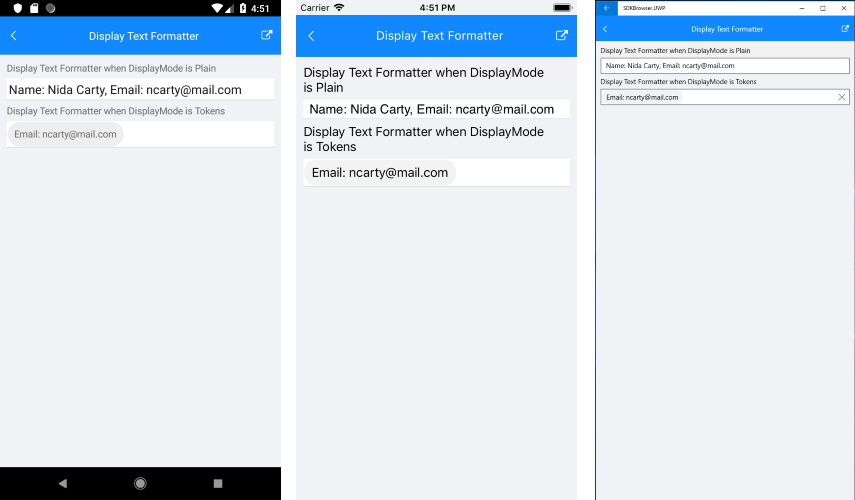
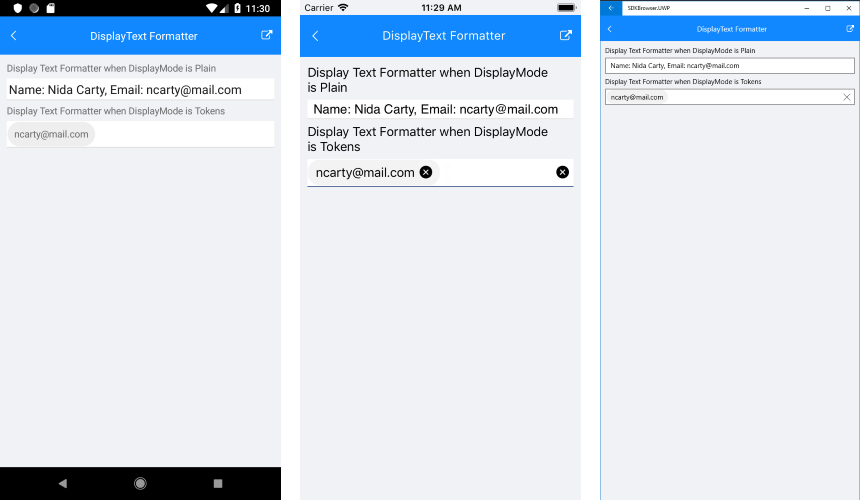
updated images

diff --git a/controls/autocompleteview/autocompleteview-display-text-formatter.md b/controls/autocompleteview/autocompleteview-display-text-formatter.md
@@ -29,10 +29,6 @@ After that create a class for example MyBusinessObjectFormatter that inherist fr
 
 <snippet id='autocompleteview-features-text-formatter-plain-class'/>
 
-and add this class as a Resource of the page:
-
-<snippet id='autocompleteview-features-textformatter-plain-resources'/>
-
 Finally, use the following snippet to declare a RadAutoCompleteView in XAML:
 
 <snippet id='autocompleteview-features-textformatter-plain'/>
@@ -57,10 +53,6 @@ After that create a class for example MyObjectFormatter that inherist from IDisp
 
 <snippet id='autocompleteview-features-text-formatter-tokens-class'/>
 
-and add this class as a Resource of the page:
-
-<snippet id='autocompleteview-features-textformatter-tokens-resources'/>
-
 Finally, use the following snippet to declare a RadAutoCompleteView in XAML:
 
 <snippet id='autocompleteview-features-textformatter-tokens'/>
@@ -71,7 +63,7 @@ Where the **telerikInput** namespace is the following:
 
 Here is how the DisplayText Formatter looks when DisplayMode is Plain and Token:
 
-![AutoCompleteView DisplayText Formatter](images/autocompleteview-features-display-text-formatter-token.png "AutoCompleteView DisplayText Formatter")
+![AutoCompleteView DisplayText Formatter](images/autocompleteview-features-display-text-formatter.png "AutoCompleteView DisplayText Formatter")
 
 >important A sample DisplayText Formatter example can be found in the AutoCompleteView/Features folder of the [SDK Samples Browser application]({%slug developer-focused-examples%}).
 
